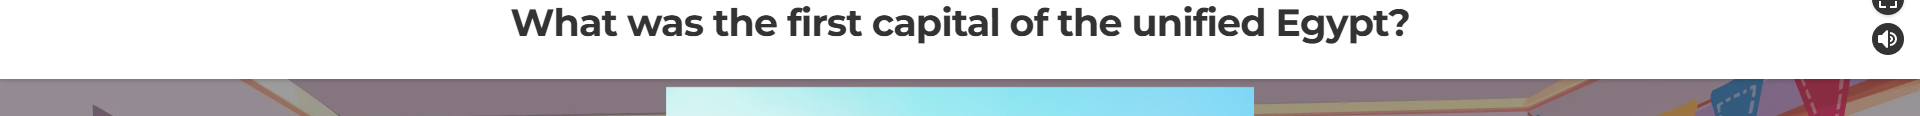
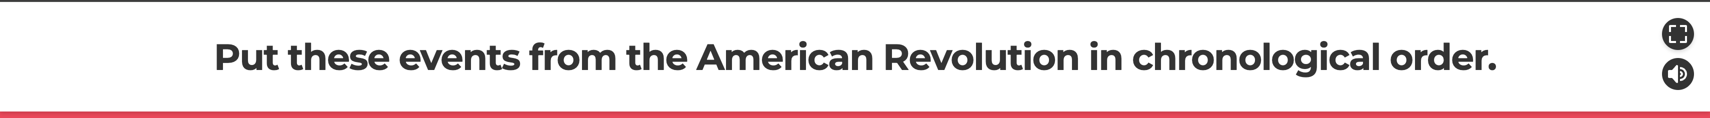
minor changes

diff --git a/Main.py b/Main.py
@@ -18,7 +18,7 @@ print("Width:", width)
 print("Height:", height)
 #Taking screenshot
 reader = easyocr.Reader(['en'])
-bounding_box = (0,height/7,width,height/4)
+bounding_box = (0,int(height/7),width,int(height/4))
 time.sleep(2)
 screenshot = ImageGrab.grab(bbox=bounding_box)
 screenshot.save("temp.png")
